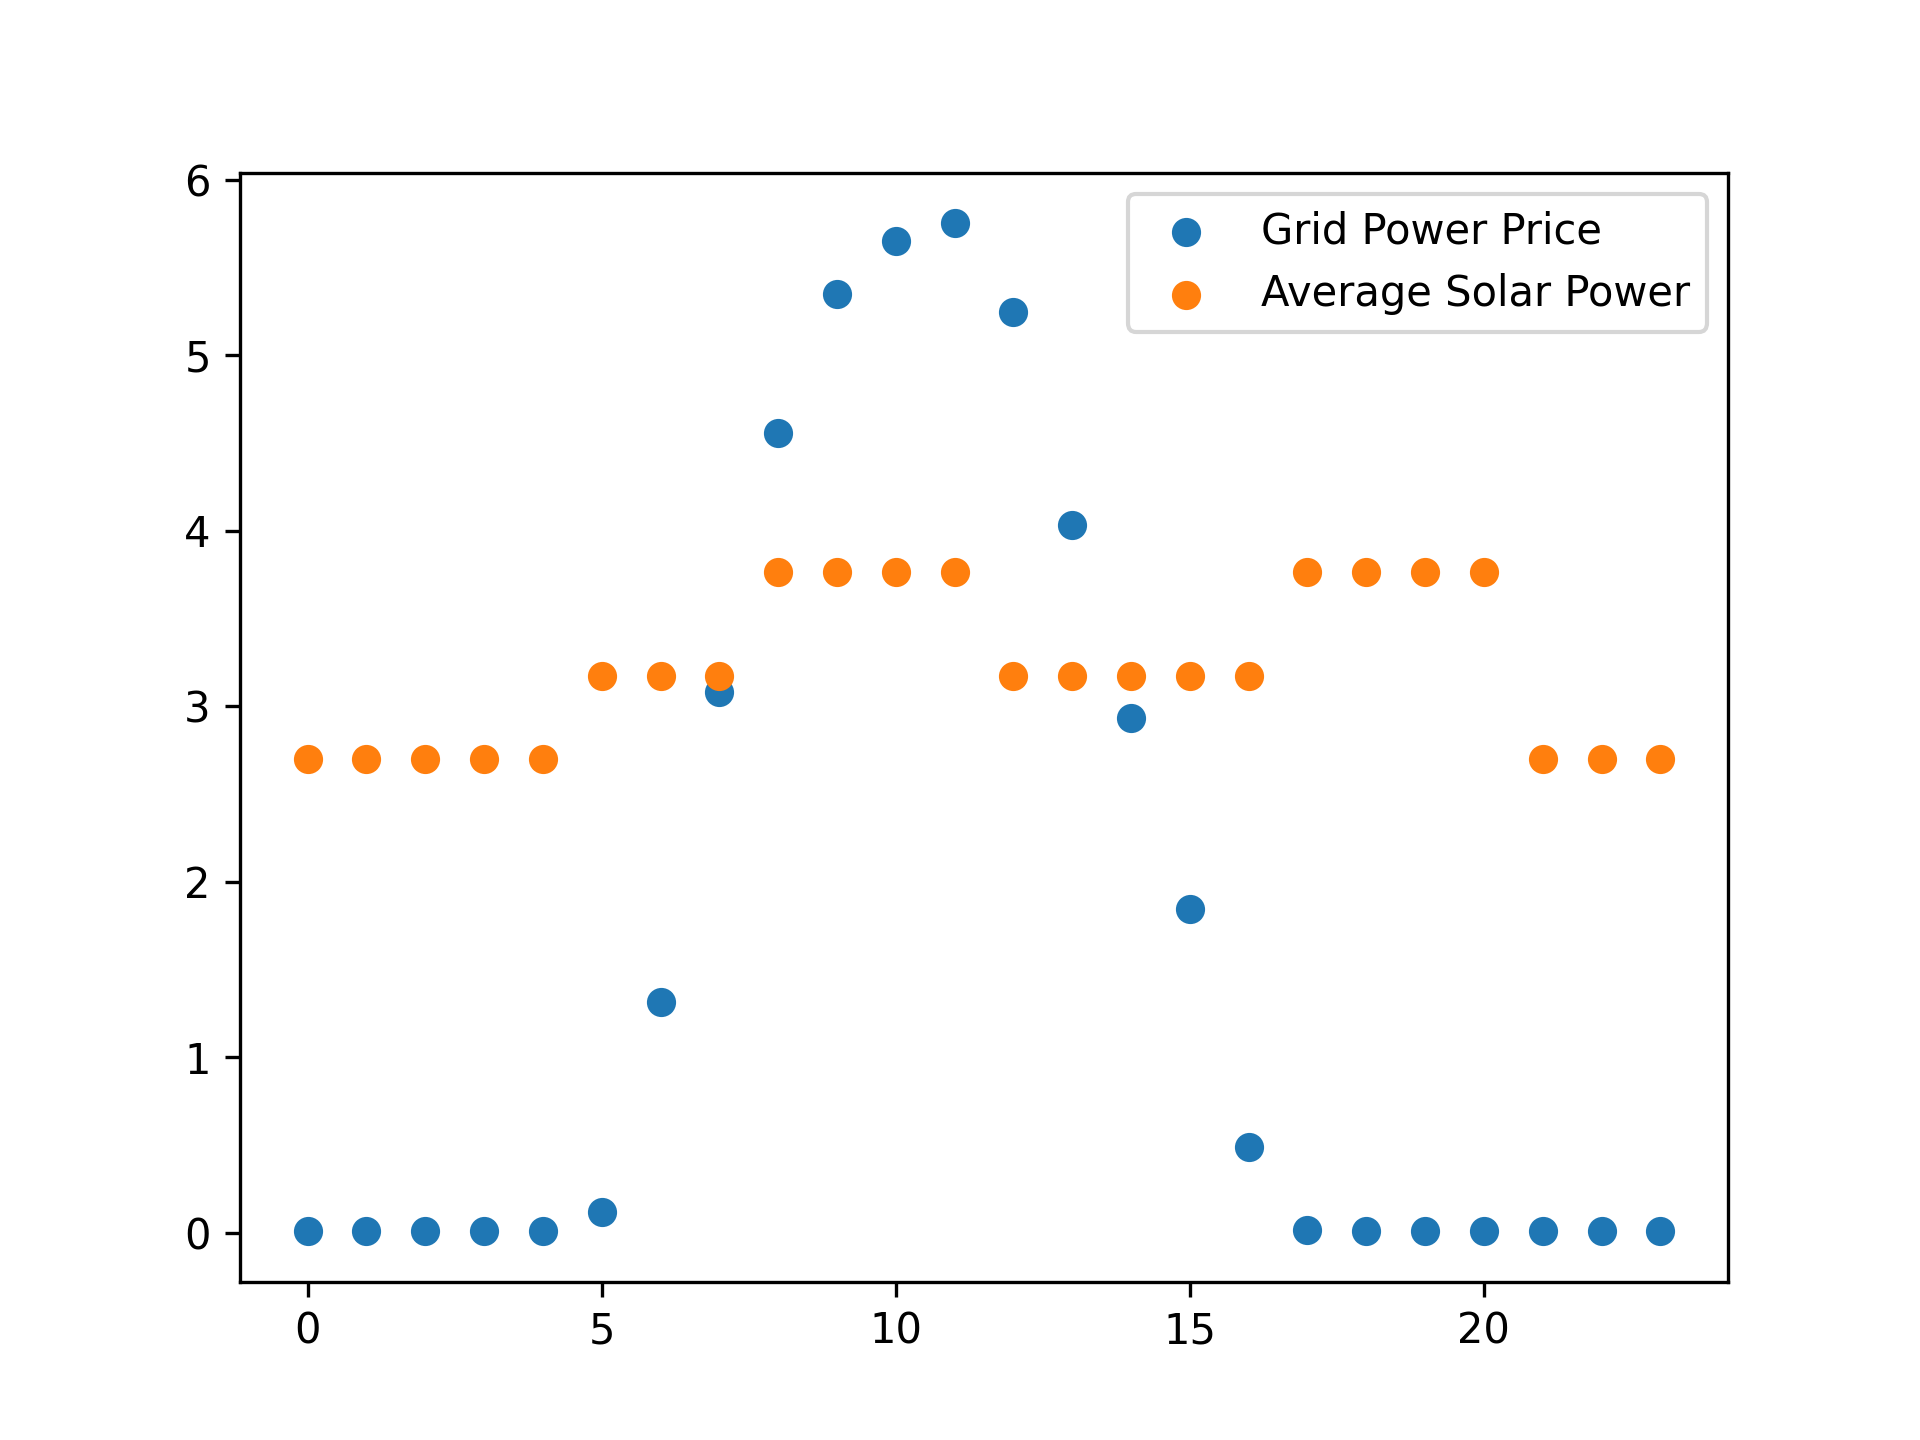
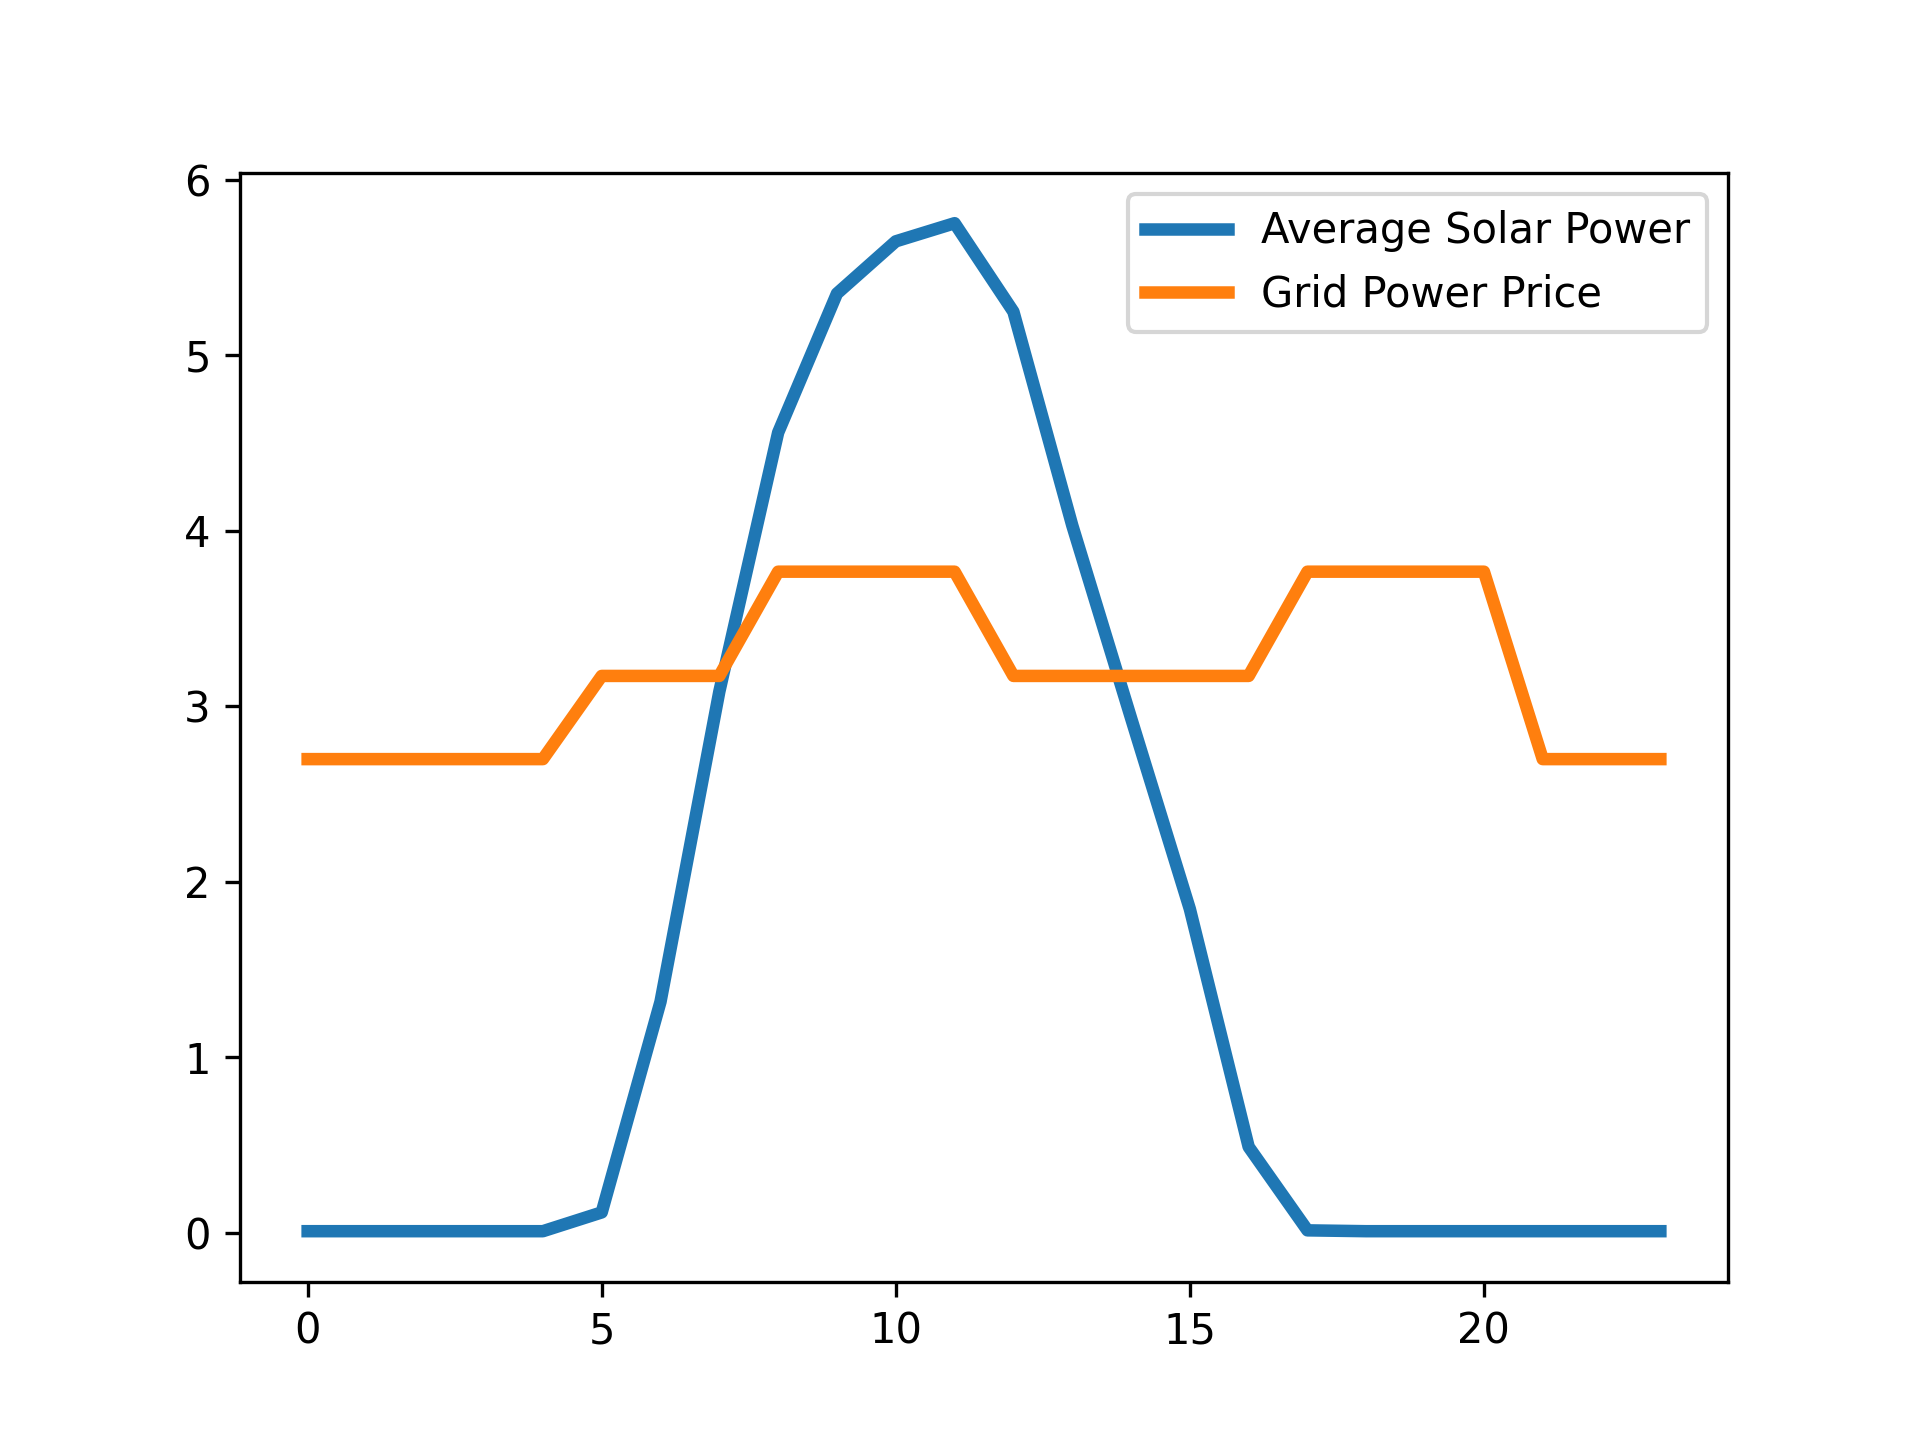
update grid_price

diff --git a/part1/big_data_model.py b/part1/big_data_model.py
@@ -327,8 +327,8 @@ hour_cost = [0] * 24
 for idx, row in Table.iterrows():
     hour_cost[row["DateTime"].hour - 1] += row["UnitSolar"]
 
-plt.scatter(list(range(24)), hour_cost, label="Grid Power Price")
-plt.scatter(list(range(24)), price, label="Average Solar Power")
+plt.plot(list(range(24)), hour_cost, label="Average Solar Power", linewidth=3.0)
+plt.plot(list(range(24)), price, label="Grid Power Price", linewidth=3.0)
 plt.legend()
 plt.savefig("./figure/grid_price.png", dpi=300)
 plt.show()
